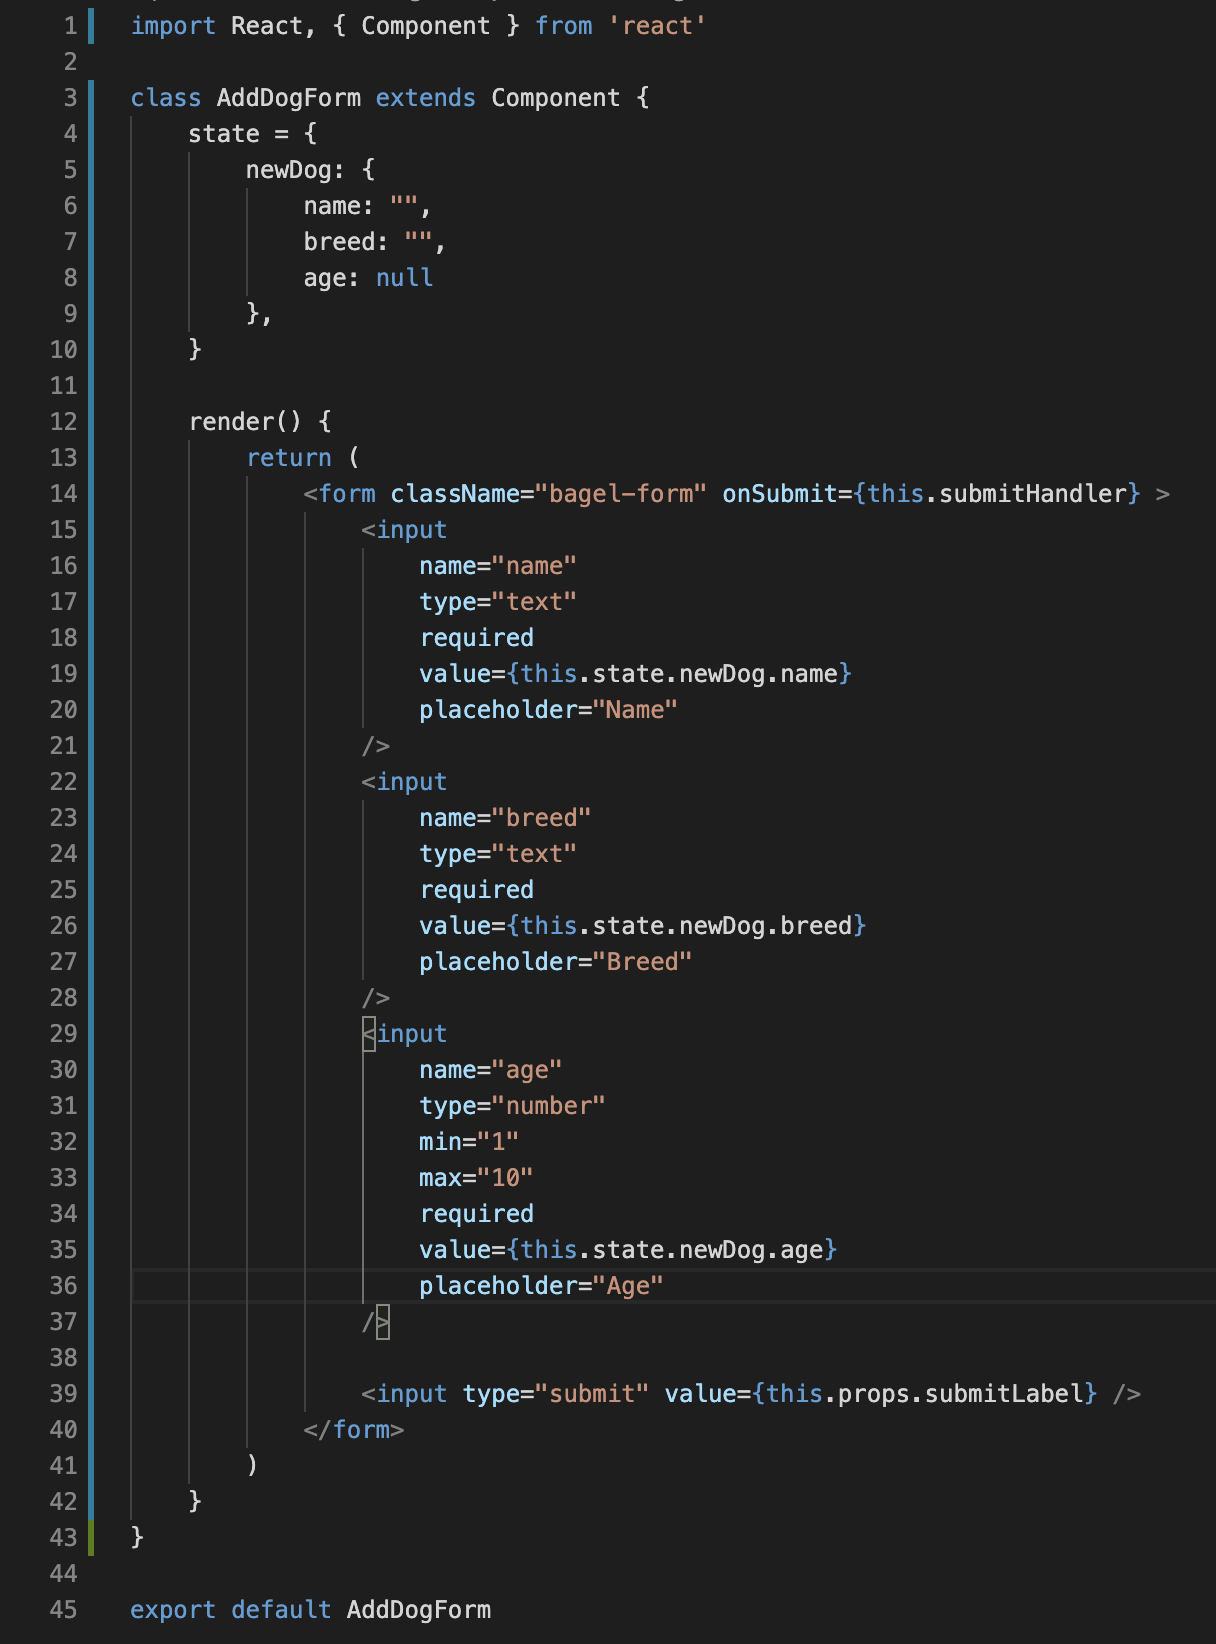
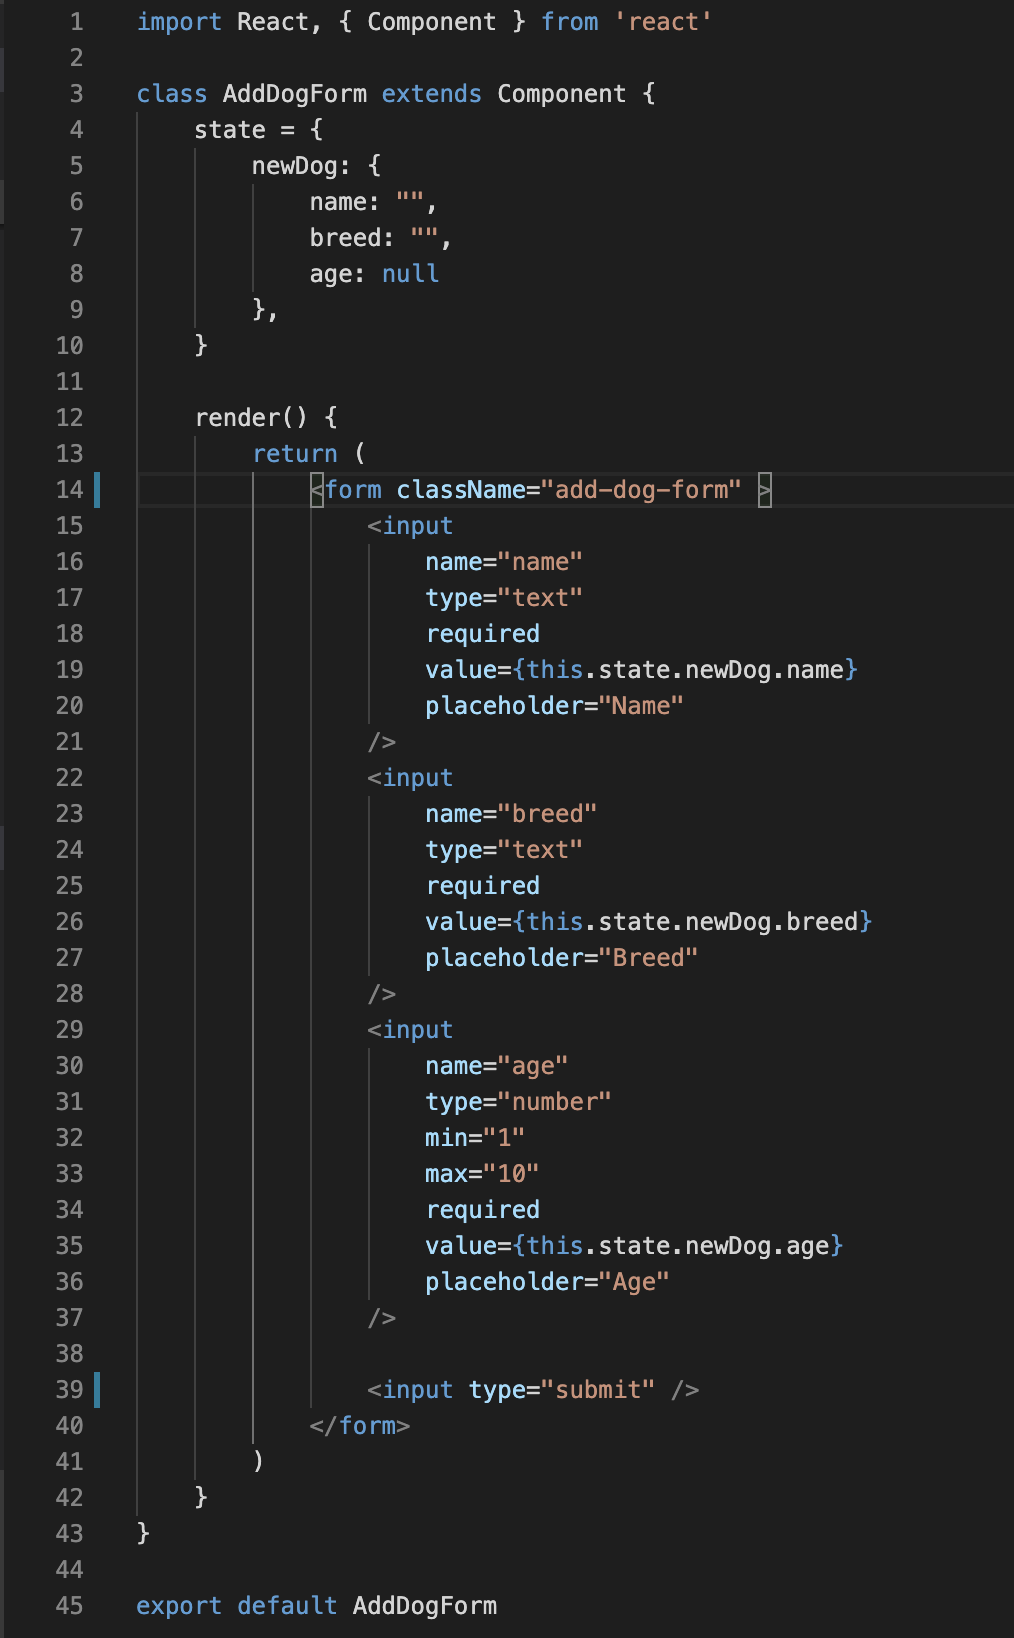
Corrected AddDogForm and corresponding instructions

diff --git a/src/components/AddDogForm.js b/src/components/AddDogForm.js
@@ -11,7 +11,7 @@ class AddDogForm extends Component {
 
     render() {
         return (
-            <form className="bagel-form" onSubmit={this.submitHandler} >
+            <form className="add-dog-form" >
                 <input
                     name="name"
                     type="text"
@@ -36,7 +36,7 @@ class AddDogForm extends Component {
                     placeholder="Age"
                 />
 
-                <input type="submit" value={this.props.submitLabel} />
+                <input type="submit" />
             </form>
         )
     }

diff --git a/README.md b/README.md
@@ -219,17 +219,17 @@ In the App component, write a function called updateSearchTerm that takes in a s
 </p>
 </details>
 
-Create a form in AddDogForm that allows a user to add an adoptable dog to the list. It should have three inputs: one for a dog's name, one for a dog's breed, and one for a dog's age.
+Create a form in AddDogForm that allows a user to add an adoptable dog to the list. It should have four inputs: one for a dog's name, one for a dog's breed, one for a dog's age, and one with a type attribute assigned to "submit".
 
 Refactor the AddDogForm component to hold a newDog object in state.
 
-Give each input a value that references corresponding information AddDogForm state.
+Give first three inputs a value that references corresponding information AddDogForm state. 
 
 <details>
 <summary>SHOW CODE</summary>
 <p>
 
-![AddDogFOrm.js](/readme-images/add-dog-form-1.png)
+![AddDogForm.js](/readme-images/add-dog-form-1.png)
 
 </p>
 </details>
